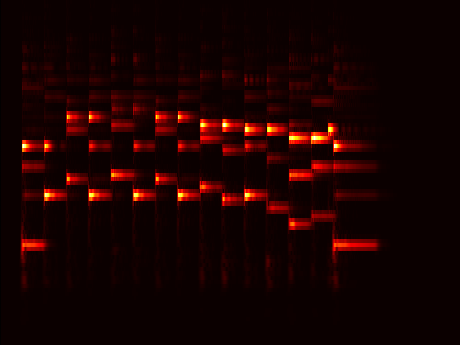
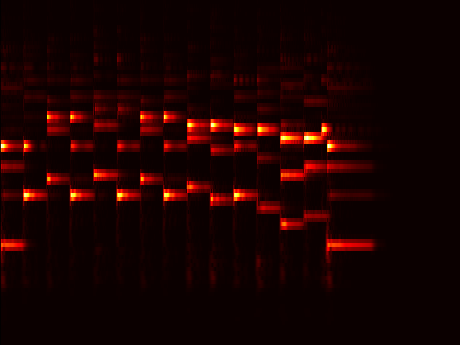
format pitch_detection

diff --git a/src/amt/pitch_detection.py b/src/amt/pitch_detection.py
@@ -23,20 +23,20 @@ def cnn_process(sc):
     best_threshold = [0.1 for i in range(15)]  # temp
     model = load_model(pm)
 
-    for i1,instr_seq in enumerate(sc.instr_seqs):
+    for i1, instr_seq in enumerate(sc.instr_seqs):
         img = cv2.imread(instr_seq.spec_path, 1)
         # print(instr_seq.spec_path)
         # plt.imshow(img)
-        valueto = math.ceil((instr_seq.notes[0].onset - 1) * sc.tempo)
+        valueto = math.ceil(instr_seq.notes[0].onset * sc.tempo)
         # print(valueto)
 
-        for i2,note in enumerate(instr_seq.notes):
+        for i2, note in enumerate(instr_seq.notes):
             onset = valueto
             valueto = math.ceil(onset + math.ceil(note.value * sc.tempo))
             # print(onset,valueto)
             imgtest = img[:, onset:valueto]
-            filename=("%d"+"."+"%d")%(i1,i2)+".jpg"
-            cv2.imwrite(ps+filename,imgtest)
+            filename=("%d"+"."+"%d") % (i1, i2)+".jpg"
+            cv2.imwrite(ps+filename, imgtest)
             # plt.imshow(imgtest)
             imgtest = transform.resize(imgtest, (100, 100))
             imgtest = imgtest.transpose((2, 0, 1))

diff --git a/src/amt/onset_detection.py b/src/amt/onset_detection.py
@@ -65,8 +65,8 @@ def get_instr_onset(cur_instr):
 def get_tempo(tempos, abs_values):
     remains = [0, 0]
 
-    avg = round(np.average(tempos))
-    mini = round(min(tempos))
+    avg = np.ceil(np.average(tempos))
+    mini = np.ceil(min(tempos))
 
     remains[0] = get_remain(avg, abs_values)
     remains[1] = get_remain(mini, abs_values)
